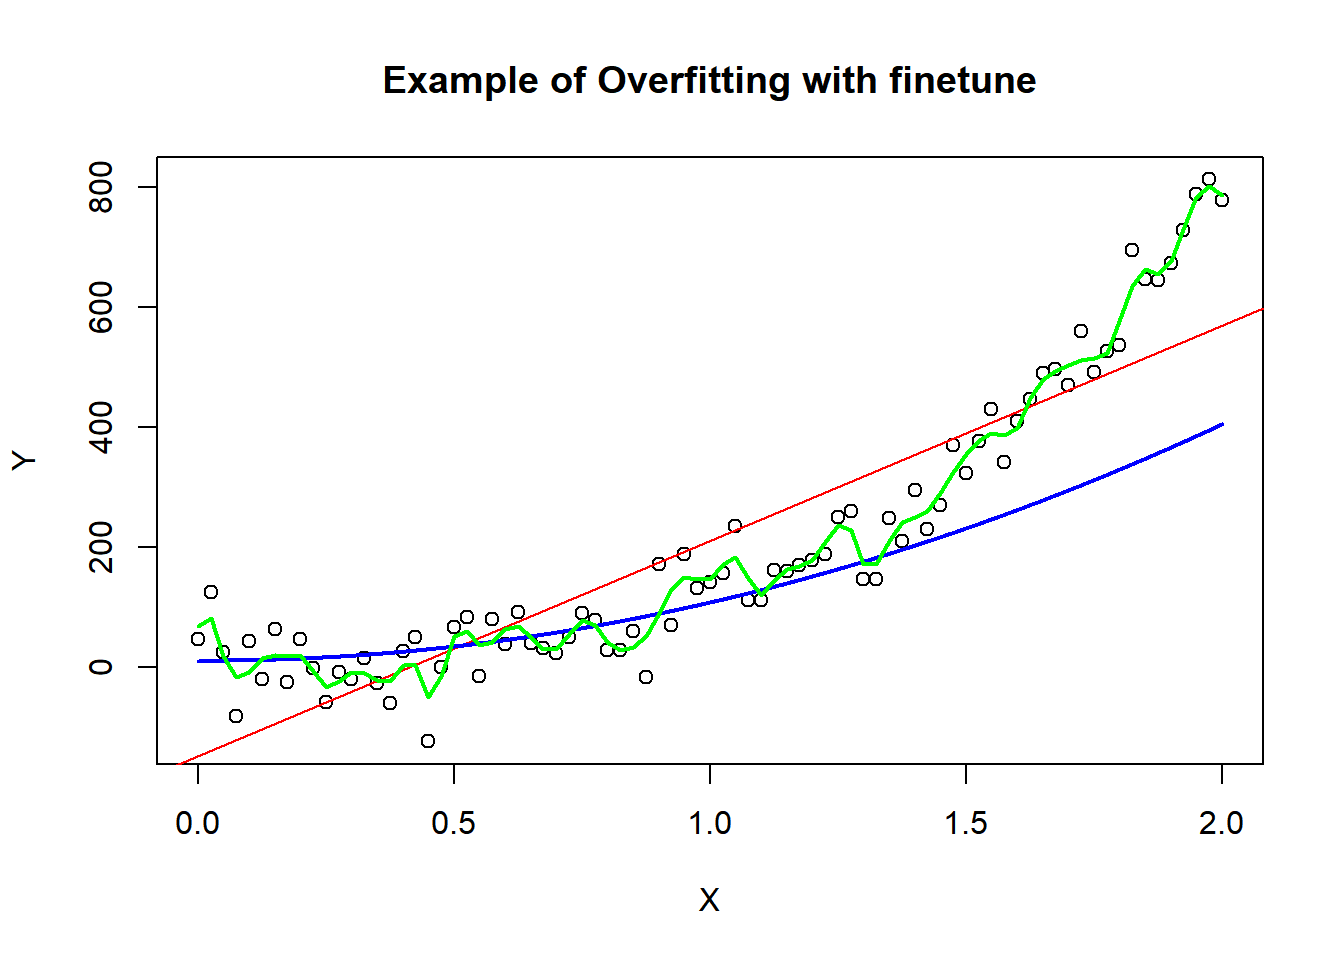
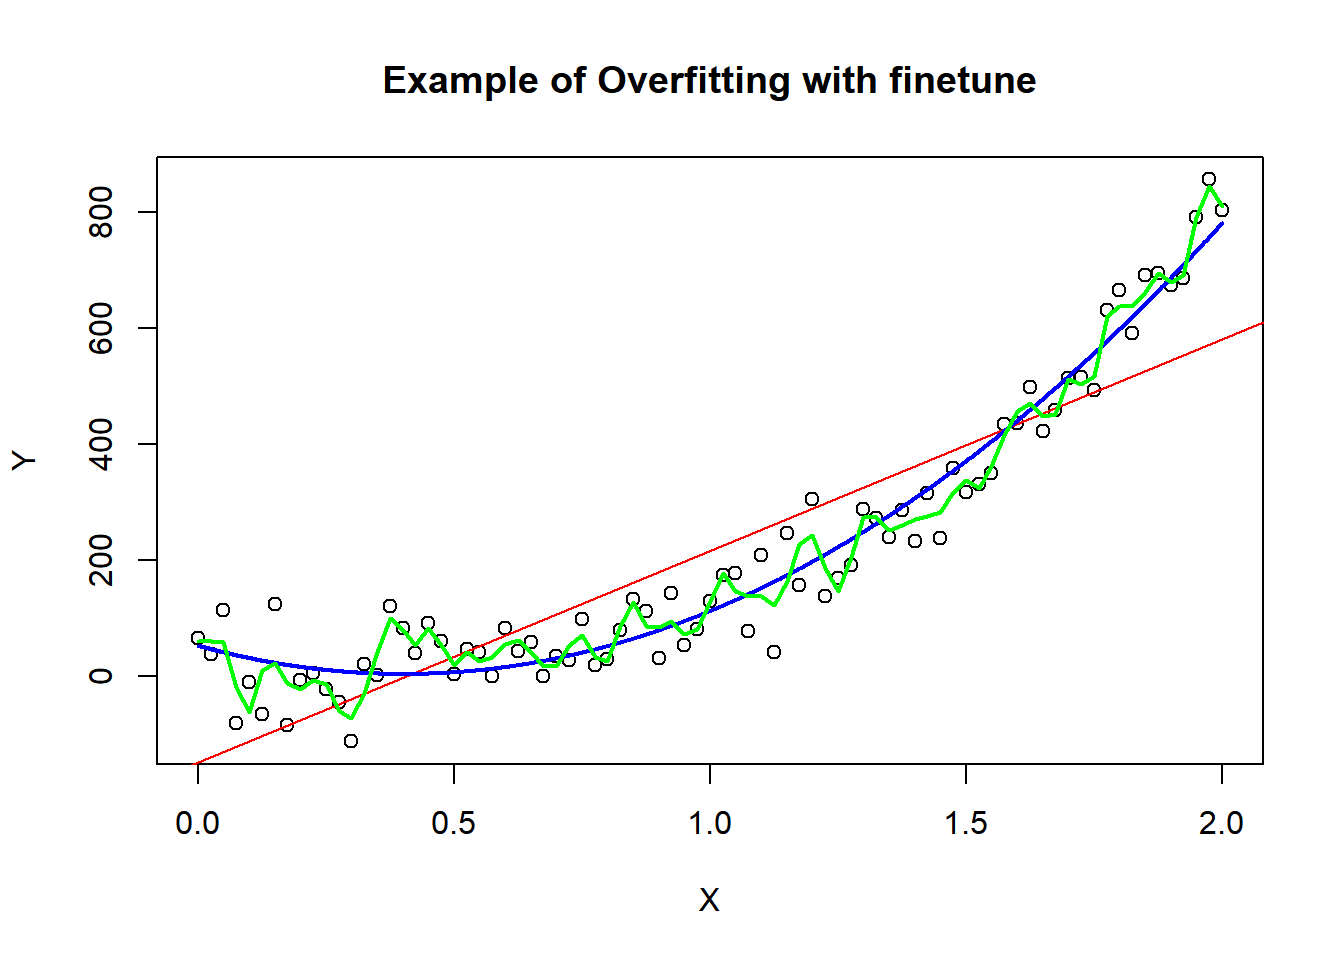
Add files via upload

diff --git a/assignment3.html b/assignment3.html
@@ -326,28 +326,30 @@ x4          0.4999091  0.1178189 4.243028 0.002164602</code></pre>
 <div class="cell">
 <div class="sourceCode cell-code" id="cb9"><pre class="sourceCode r code-with-copy"><code class="sourceCode r"><span id="cb9-1"><a href="#cb9-1" aria-hidden="true" tabindex="-1"></a>x <span class="ot">&lt;-</span> <span class="fu">seq</span>(<span class="dv">0</span>, <span class="dv">2</span>, <span class="at">by =</span> <span class="fl">0.025</span>)</span>
 <span id="cb9-2"><a href="#cb9-2" aria-hidden="true" tabindex="-1"></a>y <span class="ot">&lt;-</span> <span class="dv">5</span> <span class="sc">+</span> <span class="dv">3</span><span class="sc">*</span>x<span class="sc">^</span><span class="dv">2</span> <span class="sc">+</span> <span class="dv">100</span><span class="sc">*</span>x<span class="sc">^</span><span class="dv">3</span> <span class="sc">+</span> <span class="fu">rnorm</span>(<span class="fu">length</span>(x), <span class="dv">0</span>, <span class="dv">50</span>)</span>
-<span id="cb9-3"><a href="#cb9-3" aria-hidden="true" tabindex="-1"></a>z <span class="ot">&lt;-</span> x<span class="sc">^</span><span class="dv">3</span></span>
+<span id="cb9-3"><a href="#cb9-3" aria-hidden="true" tabindex="-1"></a>z <span class="ot">&lt;-</span> x<span class="sc">^</span><span class="dv">2</span></span>
 <span id="cb9-4"><a href="#cb9-4" aria-hidden="true" tabindex="-1"></a></span>
-<span id="cb9-5"><a href="#cb9-5" aria-hidden="true" tabindex="-1"></a>linearmodel <span class="ot">&lt;-</span> <span class="fu">lm</span>(y <span class="sc">~</span> x) <span class="co">#model fitting</span></span>
+<span id="cb9-5"><a href="#cb9-5" aria-hidden="true" tabindex="-1"></a><span class="fu">set.seed</span>(<span class="dv">2022</span>)</span>
 <span id="cb9-6"><a href="#cb9-6" aria-hidden="true" tabindex="-1"></a></span>
-<span id="cb9-7"><a href="#cb9-7" aria-hidden="true" tabindex="-1"></a>testx <span class="ot">&lt;-</span> <span class="fu">seq</span>(<span class="fl">1.1</span>, <span class="fl">1.5</span>, <span class="at">by =</span> <span class="fl">0.025</span>)</span>
-<span id="cb9-8"><a href="#cb9-8" aria-hidden="true" tabindex="-1"></a>testy <span class="ot">&lt;-</span> <span class="dv">5</span> <span class="sc">+</span> <span class="dv">3</span><span class="sc">*</span>testx<span class="sc">^</span><span class="dv">2</span> <span class="sc">+</span> <span class="dv">100</span><span class="sc">*</span>(testx)<span class="sc">^</span><span class="dv">3</span> <span class="sc">+</span> <span class="fu">rnorm</span>(<span class="fu">length</span>(testx), <span class="dv">0</span>, <span class="dv">20</span>)</span>
-<span id="cb9-9"><a href="#cb9-9" aria-hidden="true" tabindex="-1"></a>predict_linear <span class="ot">&lt;-</span> <span class="fu">predict</span>(linearmodel, <span class="fu">list</span>(<span class="at">x=</span> testx)) <span class="co">#prediction on test data set</span></span>
-<span id="cb9-10"><a href="#cb9-10" aria-hidden="true" tabindex="-1"></a></span>
-<span id="cb9-11"><a href="#cb9-11" aria-hidden="true" tabindex="-1"></a>quadraticmodel <span class="ot">&lt;-</span> <span class="fu">lm</span>(y<span class="sc">~</span> x <span class="sc">+</span> z) <span class="co">#fitting</span></span>
-<span id="cb9-12"><a href="#cb9-12" aria-hidden="true" tabindex="-1"></a>predict_quadratic <span class="ot">=</span> <span class="fu">predict</span>(quadraticmodel, <span class="fu">list</span>(<span class="at">x =</span> testx, <span class="at">z =</span> testx<span class="sc">^</span><span class="dv">2</span>)) <span class="co">#prediction on test data set</span></span>
-<span id="cb9-13"><a href="#cb9-13" aria-hidden="true" tabindex="-1"></a></span>
-<span id="cb9-14"><a href="#cb9-14" aria-hidden="true" tabindex="-1"></a>smoothspline <span class="ot">&lt;-</span> <span class="fu">smooth.spline</span>(x,y,<span class="at">df =</span> <span class="dv">40</span>) <span class="co">#fitting </span></span>
-<span id="cb9-15"><a href="#cb9-15" aria-hidden="true" tabindex="-1"></a>predict_spline <span class="ot">&lt;-</span> <span class="fu">predict</span>(smoothspline, testx)<span class="sc">$</span>y <span class="co">#prediction on test data set</span></span>
-<span id="cb9-16"><a href="#cb9-16" aria-hidden="true" tabindex="-1"></a></span>
-<span id="cb9-17"><a href="#cb9-17" aria-hidden="true" tabindex="-1"></a>seq <span class="ot">&lt;-</span> <span class="fu">seq</span>(<span class="fu">min</span>(x), <span class="fu">max</span>(x), <span class="at">by =</span> <span class="fl">0.001</span>)</span>
-<span id="cb9-18"><a href="#cb9-18" aria-hidden="true" tabindex="-1"></a>predict <span class="ot">&lt;-</span> <span class="fu">predict</span>(quadraticmodel, <span class="fu">list</span>(<span class="at">x =</span> seq, <span class="at">z =</span> seq<span class="sc">^</span><span class="dv">2</span>))</span>
-<span id="cb9-19"><a href="#cb9-19" aria-hidden="true" tabindex="-1"></a></span>
-<span id="cb9-20"><a href="#cb9-20" aria-hidden="true" tabindex="-1"></a><span class="fu">par</span>(<span class="at">mfrow=</span><span class="fu">c</span>(<span class="dv">1</span>,<span class="dv">1</span>))</span>
-<span id="cb9-21"><a href="#cb9-21" aria-hidden="true" tabindex="-1"></a><span class="fu">plot</span>(x,y, <span class="at">xlab =</span> <span class="st">"X"</span>, <span class="at">ylab =</span> <span class="st">"Y"</span>, <span class="at">main =</span> <span class="st">"Example of Overfitting with finetune"</span> )</span>
-<span id="cb9-22"><a href="#cb9-22" aria-hidden="true" tabindex="-1"></a><span class="fu">abline</span>(linearmodel, <span class="at">col =</span> <span class="st">"red"</span>, <span class="at">lwd =</span> <span class="dv">1</span>)</span>
-<span id="cb9-23"><a href="#cb9-23" aria-hidden="true" tabindex="-1"></a><span class="fu">lines</span>(seq,predict, <span class="at">col =</span> <span class="st">"blue"</span>, <span class="at">lwd =</span> <span class="dv">2</span>)</span>
-<span id="cb9-24"><a href="#cb9-24" aria-hidden="true" tabindex="-1"></a><span class="fu">lines</span>(smoothspline, <span class="at">col =</span> <span class="st">"green"</span>, <span class="at">lwd =</span> <span class="dv">2</span>)</span></code><button title="Copy to Clipboard" class="code-copy-button"><i class="bi"></i></button></pre></div>
+<span id="cb9-7"><a href="#cb9-7" aria-hidden="true" tabindex="-1"></a>linearmodel <span class="ot">&lt;-</span> <span class="fu">lm</span>(y <span class="sc">~</span> x) <span class="co">#model fitting</span></span>
+<span id="cb9-8"><a href="#cb9-8" aria-hidden="true" tabindex="-1"></a></span>
+<span id="cb9-9"><a href="#cb9-9" aria-hidden="true" tabindex="-1"></a>testx <span class="ot">&lt;-</span> <span class="fu">seq</span>(<span class="fl">1.1</span>, <span class="fl">1.5</span>, <span class="at">by =</span> <span class="fl">0.025</span>)</span>
+<span id="cb9-10"><a href="#cb9-10" aria-hidden="true" tabindex="-1"></a>testy <span class="ot">&lt;-</span> <span class="dv">5</span> <span class="sc">+</span> <span class="dv">3</span><span class="sc">*</span>testx<span class="sc">^</span><span class="dv">2</span> <span class="sc">+</span> <span class="dv">100</span><span class="sc">*</span>(testx)<span class="sc">^</span><span class="dv">3</span> <span class="sc">+</span> <span class="fu">rnorm</span>(<span class="fu">length</span>(testx), <span class="dv">0</span>, <span class="dv">20</span>)</span>
+<span id="cb9-11"><a href="#cb9-11" aria-hidden="true" tabindex="-1"></a>predict_linear <span class="ot">&lt;-</span> <span class="fu">predict</span>(linearmodel, <span class="fu">list</span>(<span class="at">x=</span> testx)) <span class="co">#prediction on test data set</span></span>
+<span id="cb9-12"><a href="#cb9-12" aria-hidden="true" tabindex="-1"></a></span>
+<span id="cb9-13"><a href="#cb9-13" aria-hidden="true" tabindex="-1"></a>quadraticmodel <span class="ot">&lt;-</span> <span class="fu">lm</span>(y<span class="sc">~</span> x <span class="sc">+</span> z) <span class="co">#fitting</span></span>
+<span id="cb9-14"><a href="#cb9-14" aria-hidden="true" tabindex="-1"></a>predict_quadratic <span class="ot">=</span> <span class="fu">predict</span>(quadraticmodel, <span class="fu">list</span>(<span class="at">x =</span> testx, <span class="at">z =</span> testx<span class="sc">^</span><span class="dv">2</span>)) <span class="co">#prediction on test data set</span></span>
+<span id="cb9-15"><a href="#cb9-15" aria-hidden="true" tabindex="-1"></a></span>
+<span id="cb9-16"><a href="#cb9-16" aria-hidden="true" tabindex="-1"></a>smoothspline <span class="ot">&lt;-</span> <span class="fu">smooth.spline</span>(x,y,<span class="at">df =</span> <span class="dv">50</span>) <span class="co">#fitting </span></span>
+<span id="cb9-17"><a href="#cb9-17" aria-hidden="true" tabindex="-1"></a>predict_spline <span class="ot">&lt;-</span> <span class="fu">predict</span>(smoothspline, testx)<span class="sc">$</span>y <span class="co">#prediction on test data set</span></span>
+<span id="cb9-18"><a href="#cb9-18" aria-hidden="true" tabindex="-1"></a></span>
+<span id="cb9-19"><a href="#cb9-19" aria-hidden="true" tabindex="-1"></a>seq <span class="ot">&lt;-</span> <span class="fu">seq</span>(<span class="fu">min</span>(x), <span class="fu">max</span>(x), <span class="at">by =</span> <span class="fl">0.001</span>)</span>
+<span id="cb9-20"><a href="#cb9-20" aria-hidden="true" tabindex="-1"></a>predict <span class="ot">&lt;-</span> <span class="fu">predict</span>(quadraticmodel, <span class="fu">list</span>(<span class="at">x =</span> seq, <span class="at">z =</span> seq<span class="sc">^</span><span class="dv">2</span>))</span>
+<span id="cb9-21"><a href="#cb9-21" aria-hidden="true" tabindex="-1"></a></span>
+<span id="cb9-22"><a href="#cb9-22" aria-hidden="true" tabindex="-1"></a><span class="fu">par</span>(<span class="at">mfrow=</span><span class="fu">c</span>(<span class="dv">1</span>,<span class="dv">1</span>))</span>
+<span id="cb9-23"><a href="#cb9-23" aria-hidden="true" tabindex="-1"></a><span class="fu">plot</span>(x,y, <span class="at">xlab =</span> <span class="st">"X"</span>, <span class="at">ylab =</span> <span class="st">"Y"</span>, <span class="at">main =</span> <span class="st">"Example of Overfitting with finetune"</span> )</span>
+<span id="cb9-24"><a href="#cb9-24" aria-hidden="true" tabindex="-1"></a><span class="fu">abline</span>(linearmodel, <span class="at">col =</span> <span class="st">"red"</span>, <span class="at">lwd =</span> <span class="dv">1</span>)</span>
+<span id="cb9-25"><a href="#cb9-25" aria-hidden="true" tabindex="-1"></a><span class="fu">lines</span>(seq,predict, <span class="at">col =</span> <span class="st">"blue"</span>, <span class="at">lwd =</span> <span class="dv">2</span>)</span>
+<span id="cb9-26"><a href="#cb9-26" aria-hidden="true" tabindex="-1"></a><span class="fu">lines</span>(smoothspline, <span class="at">col =</span> <span class="st">"green"</span>, <span class="at">lwd =</span> <span class="dv">2</span>)</span></code><button title="Copy to Clipboard" class="code-copy-button"><i class="bi"></i></button></pre></div>
 <div class="cell-output-display">
 <p><img src="assignment3_files/figure-html/unnamed-chunk-2-1.png" class="img-fluid" width="672"></p>
 </div>
